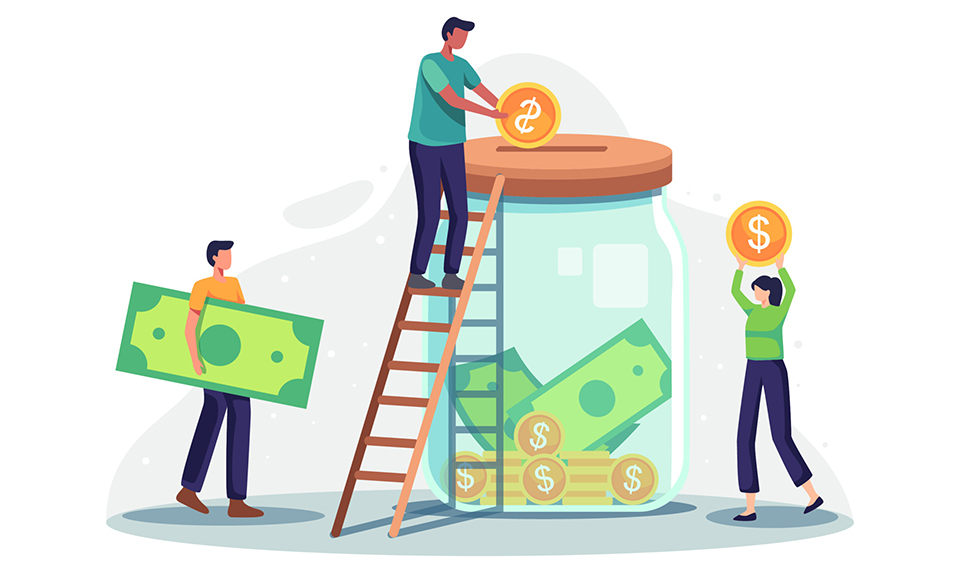
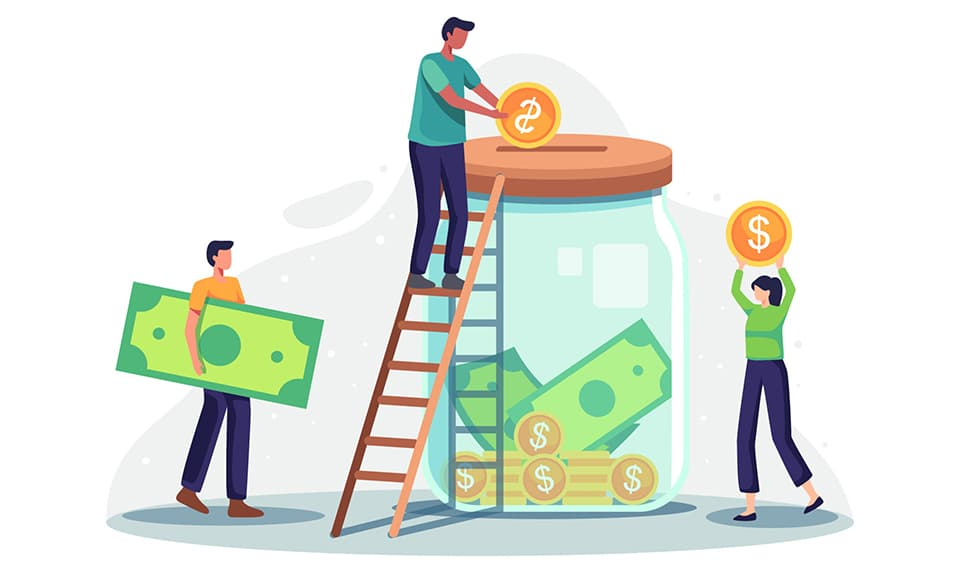
images optimized

diff --git a/src/news.js b/src/news.js
@@ -1,5 +1,5 @@
-import pic1 from './images/post_1.jpeg';
-import pic2 from './images/post_2.jpeg';
+import pic1 from './images/post_1.jpg';
+import pic2 from './images/post_2.jpg';
 
 export const newsUa = [
   {
